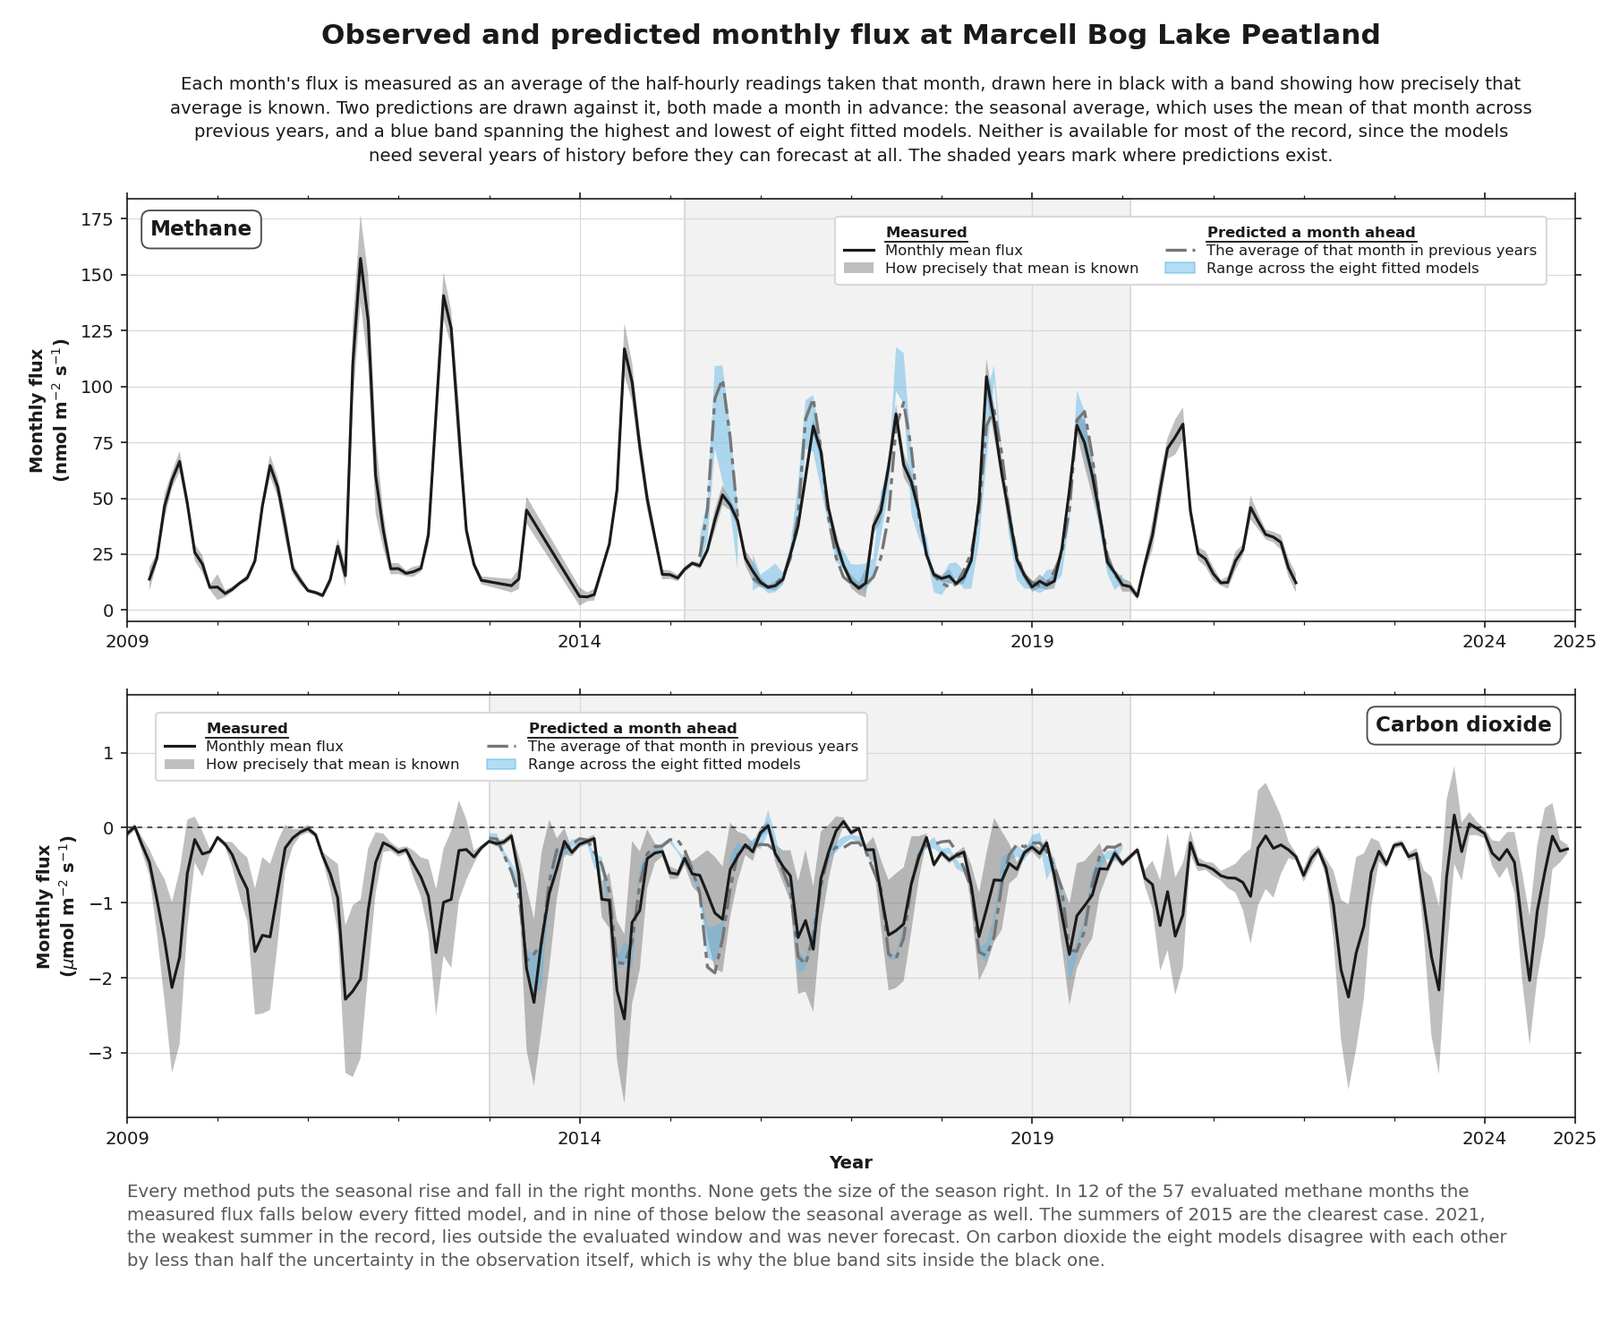
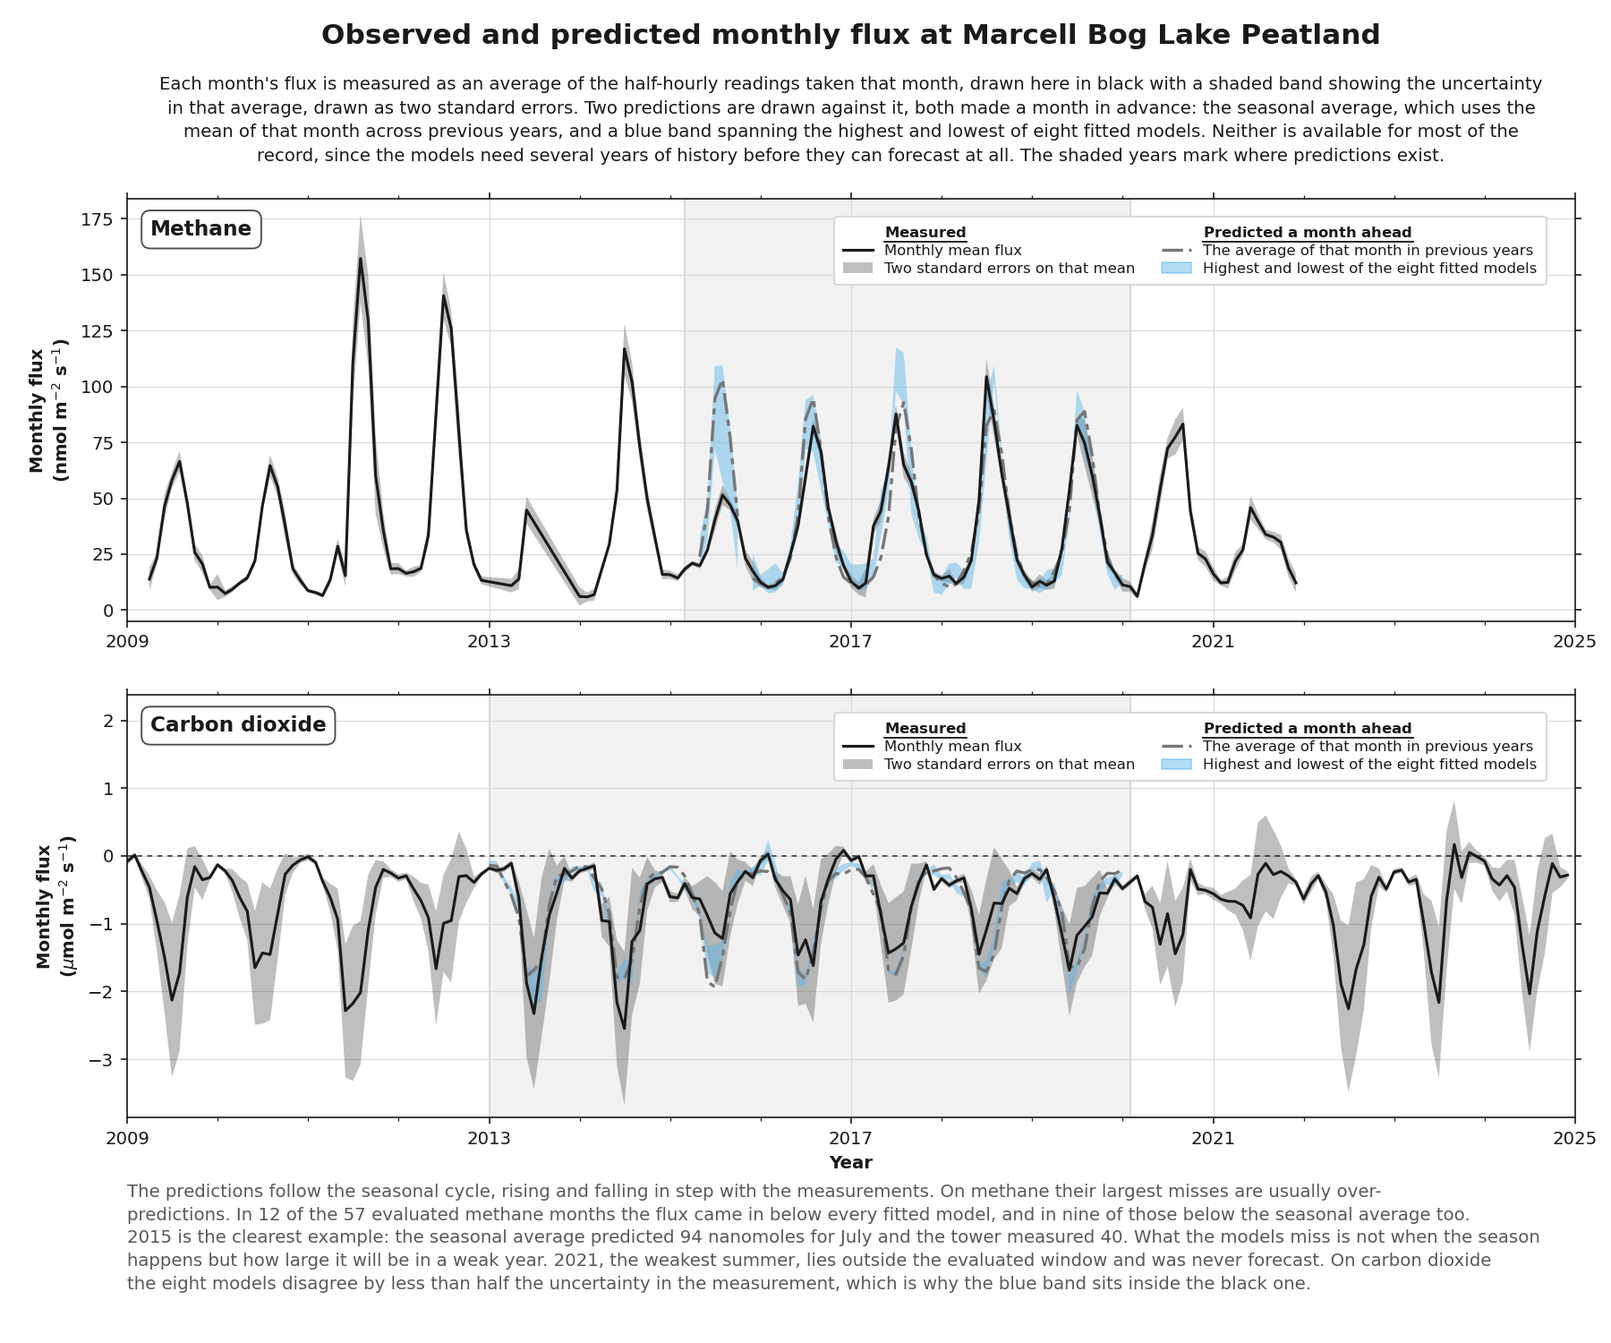
Revise the flux figure's ticks, legend and text

diff --git a/src/study/figures.py b/src/study/figures.py
@@ -362,11 +362,11 @@ FORECAST_TEXT = ps.FigureText(
     description=(
         "Methane is measured in nanomoles and carbon dioxide in micromoles, so "
         "the two panels cannot be compared by eye. The blue region spans all "
-        "eight fitted methods. Its lower edge dips below the seasonal average at "
+        "eight fitted models. Its lower edge dips below the seasonal average at "
         "one month on both gases, and at six months on methane, though never by "
         "more than the band. Its upper edge rises above the band at three, six "
-        "and twelve months: some fitted methods are distinguishably worse than "
-        "the average. The band is wide where the closest fitted method disagrees "
+        "and twelve months: some fitted models are distinguishably worse than "
+        "the average. The band is wide where the closest fitted model disagrees "
         "with the average erratically from month to month, not where the average "
         "is least certain."
     ),
@@ -434,7 +434,7 @@ def forecast_error_by_horizon(panels: dict[str, pd.DataFrame]) -> Figure:
     error that would put them on a common axis is not comparable between them.
     Removing the measure removes the temptation.
 
-    The fitted methods appear as a range rather than as eight labeled curves.
+    The fitted models appear as a range rather than as eight labeled curves.
     Four of the sixteen method comparisons reach nominal significance and none
     survives correction for multiple testing, so drawing an order would assert a
     ranking the evidence does not support.
@@ -461,7 +461,7 @@ def forecast_error_by_horizon(panels: dict[str, pd.DataFrame]) -> Figure:
         last = len(table) - 1
         ps.annotate(
             ax,
-            "above the band,\nsome fitted methods are\ndistinguishably worse",
+            "above the band,\nsome fitted models are\ndistinguishably worse",
             xy=(float(last), float(table["fitted_high"].iloc[last])),
             xytext=(0.988, 0.97), textcoords="axes fraction", ha="right", va="top",
         )
@@ -539,7 +539,7 @@ def _forecast_legend(ax) -> None:
     entries += [
         (blank, r"$\bf{Shaded\ regions}$"),
         (Patch(facecolor=ps.FITTED, alpha=ps.FITTED_FILL_ALPHA, edgecolor=ps.FITTED,
-               linewidth=0.9), "Range across the eight fitted methods"),
+               linewidth=0.9), "Highest and lowest of the eight fitted models"),
         (Patch(facecolor=ps.NOT_DISTINGUISHABLE, edgecolor="none"),
          "Margin needed to differ from the average"),
     ]
@@ -580,7 +580,7 @@ GAS_OBSERVED = {
 }
 
 #: The horizon this figure draws. One month is the horizon most favorable to the
-#: fitted methods, so showing that they do not follow the observations even there
+#: fitted models, so showing that they do not follow the observations even there
 #: is a stronger claim than showing it a year out.
 FLUX_HORIZON = 1
 
@@ -623,8 +623,9 @@ FLUX_TEXT = ps.FigureText(
     title="Observed and predicted monthly flux at Marcell Bog Lake Peatland",
     subtitle=(
         "Each month's flux is measured as an average of the half-hourly readings "
-        "taken that month, drawn here in black with a band showing how precisely "
-        "that average is known. Two predictions are drawn against it, both made a "
+        "taken that month, drawn here in black with a shaded band showing the "
+        "uncertainty in that average, drawn as two standard errors. Two "
+        "predictions are drawn against it, both made a "
         "month in advance: the seasonal average, which uses the mean of that month "
         "across previous years, and a blue band spanning the highest and lowest of "
         "eight fitted models. Neither is available for most of the record, since "
@@ -632,14 +633,16 @@ FLUX_TEXT = ps.FigureText(
         "The shaded years mark where predictions exist."
     ),
     description=(
-        "Every method puts the seasonal rise and fall in the right months. None "
-        "gets the size of the season right. In 12 of the 57 evaluated methane "
-        "months the measured flux falls below every fitted model, and in nine of "
-        "those below the seasonal average as well. The summers of 2015 are the "
-        "clearest case. 2021, the weakest summer in the "
-        "record, lies outside the evaluated window and was never forecast. On "
-        "carbon dioxide the eight models disagree with each other by less than "
-        "half the uncertainty in the observation itself, which is why the blue "
+        "The predictions follow the seasonal cycle, rising and falling in step "
+        "with the measurements. On methane their largest misses are usually "
+        "over-predictions. In 12 of the 57 evaluated methane months the flux came "
+        "in below every fitted model, and in nine of those below the seasonal "
+        "average too. 2015 is the clearest example: the seasonal average "
+        "predicted 94 nanomoles for July and the tower measured 40. What the "
+        "models miss is not when the season happens but how large it will be in a "
+        "weak year. 2021, the weakest summer, lies outside the evaluated window "
+        "and was never forecast. On carbon dioxide the eight models disagree by "
+        "less than half the uncertainty in the measurement, which is why the blue "
         "band sits inside the black one."
     ),
 )
@@ -686,26 +689,25 @@ def _draw_flux_panel(ax, panel: pd.DataFrame, unit: str, labeled: bool) -> None:
 def _flux_legend(ax, panel: pd.DataFrame) -> str:
     """Two columns, measured on the left and predicted on the right.
 
-    Placed on whichever side of the panel the series leave clear. The two records
-    peak at opposite ends, so a fixed corner would sit on the data in one panel or
-    the other.
+    Both panels put it on the right so a reader's eye does not relocate between
+    them. Methane's peaks are all in the first half of its record, and carbon
+    dioxide's right-hand months need a little more headroom than its left-hand
+    ones, which the fitting loop supplies.
     """
-    highest = panel["observed"] + OBSERVED_BAND_SIGMAS * panel["se"]
-    middle = len(panel) // 2
-    side = "upper right" if highest[:middle].max() > highest[middle:].max() else "upper left"
+    side = "upper right"
     blank = Line2D([], [], linestyle="none", marker="none")
     entries = [
         (blank, r"$\bf{Measured}$"),
         (Line2D([], [], color=ps.INK, linewidth=1.5), "Monthly mean flux"),
         (Patch(facecolor=ps.INK, alpha=ps.OBSERVED_BAND_ALPHA, edgecolor="none"),
-         "How precisely that mean is known"),
+         "Two standard errors on that mean"),
         (blank, r"$\bf{Predicted\ a\ month\ ahead}$"),
         (Line2D([], [], color="#767676", linestyle=(0, (7, 2, 2, 2)), linewidth=1.6),
          "The average of that month in previous years"),
         (Patch(facecolor=ps.FITTED, alpha=ps.FITTED_FILL_ALPHA, edgecolor=ps.FITTED,
-               linewidth=0.9), "Range across the eight fitted models"),
+               linewidth=0.9), "Highest and lowest of the eight fitted models"),
     ]
-    anchor = (0.985, 0.975) if side == "upper right" else (0.015, 0.975)
+    anchor = (0.985, 0.975)
     ps.legend(ax, handles=[h for h, _ in entries], labels=[label for _, label in entries],
               loc=side, bbox_to_anchor=anchor, ncol=2, borderpad=0.6,
               labelspacing=0.3, columnspacing=1.8, handlelength=2.0,
@@ -764,8 +766,8 @@ def observed_and_predicted(panels: dict[str, pd.DataFrame]) -> Figure:
         row = bottom + (1 - index) * (panel_height + gap)
         ax = fig.add_axes((left, row, width, panel_height))
         _draw_flux_panel(ax, panels[key], unit, labeled=index == len(GAS_PANEL) - 1)
-        side = _flux_legend(ax, panels[key])
-        ps.panel_name(ax, gas, align="right" if side == "upper left" else "left")
+        _flux_legend(ax, panels[key])
+        ps.panel_name(ax, gas, align="left")
         axes.append(ax)
 
     # One time axis for both panels, so a year sits at the same place in each.
@@ -775,7 +777,7 @@ def observed_and_predicted(panels: dict[str, pd.DataFrame]) -> Figure:
     last = (max(panel.index.max() for panel in panels.values()) + 1).to_timestamp()
     for ax, (key, _, _) in zip(axes, GAS_PANEL):
         ax.set_xlim(first, last)
-        ps.five_year_ticks(ax, first.year, last.year)
+        ps.even_year_ticks(ax, first.year, last.year)
         _raise_top_for_flux_legend(ax, panels[key])
         _underline_legend_headings(fig, ax)
     return fig

diff --git a/tests/test_flux_figure.py b/tests/test_flux_figure.py
@@ -230,3 +230,55 @@ def test_where_the_two_bands_overlap_the_result_is_distinct_from_each():
     both = _over(ps.FITTED, ps.FITTED_FILL_ALPHA, base=grey)
     for other in (grey, blue):
         assert np.linalg.norm(both - other) > 0.04
+
+
+def test_both_legends_sit_on_the_same_side():
+    """A legend that moves between panels makes the eye relocate."""
+    fig = figures.observed_and_predicted(real_panels())
+    fig.canvas.draw()
+    corners = set()
+    for ax in fig.axes:
+        box = ax.get_legend().get_window_extent().transformed(ax.transAxes.inverted())
+        corners.add(round((box.x0 + box.x1) / 2) )
+    assert len(corners) == 1
+    ps.plt.close(fig)
+
+
+def test_the_year_ticks_are_evenly_spaced_and_reach_the_end_of_the_axis():
+    import matplotlib.dates as mdates
+
+    fig = figures.observed_and_predicted(real_panels())
+    for ax in fig.axes:
+        years = [mdates.num2date(t).year for t in ax.get_xticks()]
+        gaps = {b - a for a, b in zip(years, years[1:])}
+        assert len(gaps) == 1, f"uneven year gaps: {years}"
+        assert years[-1] == mdates.num2date(ax.get_xlim()[1]).year
+        assert len(ax.xaxis.get_minor_locator()() ) > len(years), "annual minors missing"
+    ps.plt.close(fig)
+
+
+def test_the_legend_names_what_the_band_is_not_what_it_is_for():
+    fig = figures.observed_and_predicted(real_panels())
+    labels = [t.get_text() for t in fig.axes[0].get_legend().get_texts()]
+    assert "Two standard errors on that mean" in labels
+    assert "Highest and lowest of the eight fitted models" in labels
+    assert not any("precisely" in label for label in labels)
+    ps.plt.close(fig)
+
+
+def test_the_eight_are_called_models_wherever_they_are_named():
+    """Four methods, each run two ways, are eight models.
+
+    "Four fitted methods" naming the four algorithms is the one correct use of the
+    word and is left alone; what is forbidden is calling the eight fitted things
+    methods.
+    """
+    for text in (figures.FLUX_TEXT, figures.FORECAST_TEXT):
+        words = text.subtitle + text.description
+        assert "eight fitted methods" not in words
+        assert "fitted method disagrees" not in words
+    fig = figures.observed_and_predicted(real_panels())
+    for ax in fig.axes:
+        for label in (t.get_text() for t in ax.get_legend().get_texts()):
+            assert "fitted methods" not in label
+    ps.plt.close(fig)

diff --git a/src/study/plotstyle.py b/src/study/plotstyle.py
@@ -41,7 +41,7 @@ from ingest import paths
 INSIDE = "#0072B2"
 OUTSIDE = "#D55E00"
 
-#: The fitted methods in the forecast comparison. Okabe-Ito sky blue, chosen by
+#: The fitted models in the forecast comparison. Okabe-Ito sky blue, chosen by
 #: measurement rather than by taste: its worst separation from either support
 #: hue is 25.0 under simulated deficiency, and from every gray on its own panel
 #: at least 33.0, against the 2.3 at which two colors become distinguishable.
@@ -400,6 +400,27 @@ def five_year_ticks(ax: plt.Axes, first_year: int, last_year: int) -> None:
     years = list(range(first_year, last_year + 1, 5))
     if last_year not in years:
         years.append(last_year)
+    ax.xaxis.set_major_locator(FixedLocator([date2num(_dt.date(y, 1, 1)) for y in years]))
+    ax.xaxis.set_major_formatter(DateFormatter("%Y"))
+    ax.xaxis.set_minor_locator(YearLocator(1))
+
+
+def even_year_ticks(ax: plt.Axes, first_year: int, last_year: int) -> None:
+    """Major ticks evenly spaced from the first year to the last, annual minors.
+
+    `five_year_ticks` appends the endpoint when it does not fall on a multiple of
+    five, which leaves a short final gap against long ones elsewhere. Here the
+    step is chosen so the last label lands on the end of the axis and every gap
+    is the same.
+    """
+    import datetime as _dt
+
+    from matplotlib.dates import DateFormatter, YearLocator, date2num
+    from matplotlib.ticker import FixedLocator
+
+    span = last_year - first_year
+    step = next((s for s in (5, 4, 3, 2, 1) if span % s == 0), 1)
+    years = list(range(first_year, last_year + 1, step))
     ax.xaxis.set_major_locator(FixedLocator([date2num(_dt.date(y, 1, 1)) for y in years]))
     ax.xaxis.set_major_formatter(DateFormatter("%Y"))
     ax.xaxis.set_minor_locator(YearLocator(1))

diff --git a/figures/README_fragments.md b/figures/README_fragments.md
@@ -28,12 +28,12 @@ Each marker is one year's emission in grams of carbon per square meter, from rel
 
 **Four fitted methods (ordinary least squares, ridge regression, random forest and gradient boosting), each run with and without lagged environmental covariates, are compared against four simple benchmarks. Each is evaluated at forecast horizons of one to twelve months, meaning how far ahead the prediction is made. The most accurate at every horizon on both gases is the simplest: predicting each month as the average of that month in previous years. The pale band marks how far below that average a method would have to fall before the difference could be told apart from noise.**
 
-Methane is measured in nanomoles and carbon dioxide in micromoles, so the two panels cannot be compared by eye. The blue region spans all eight fitted methods. Its lower edge dips below the seasonal average at one month on both gases, and at six months on methane, though never by more than the band. Its upper edge rises above the band at three, six and twelve months: some fitted methods are distinguishably worse than the average. The band is wide where the closest fitted method disagrees with the average erratically from month to month, not where the average is least certain.
+Methane is measured in nanomoles and carbon dioxide in micromoles, so the two panels cannot be compared by eye. The blue region spans all eight fitted models. Its lower edge dips below the seasonal average at one month on both gases, and at six months on methane, though never by more than the band. Its upper edge rises above the band at three, six and twelve months: some fitted models are distinguishably worse than the average. The band is wide where the closest fitted model disagrees with the average erratically from month to month, not where the average is least certain.
 
 ### Observed and predicted monthly flux at Marcell Bog Lake Peatland
 
 ![Observed and predicted monthly flux at Marcell Bog Lake Peatland](figures/observed_and_predicted.png)
 
-**Each month's flux is measured as an average of the half-hourly readings taken that month, drawn here in black with a band showing how precisely that average is known. Two predictions are drawn against it, both made a month in advance: the seasonal average, which uses the mean of that month across previous years, and a blue band spanning the highest and lowest of eight fitted models. Neither is available for most of the record, since the models need several years of history before they can forecast at all. The shaded years mark where predictions exist.**
+**Each month's flux is measured as an average of the half-hourly readings taken that month, drawn here in black with a shaded band showing the uncertainty in that average, drawn as two standard errors. Two predictions are drawn against it, both made a month in advance: the seasonal average, which uses the mean of that month across previous years, and a blue band spanning the highest and lowest of eight fitted models. Neither is available for most of the record, since the models need several years of history before they can forecast at all. The shaded years mark where predictions exist.**
 
-Every method puts the seasonal rise and fall in the right months. None gets the size of the season right. In 12 of the 57 evaluated methane months the measured flux falls below every fitted model, and in nine of those below the seasonal average as well. The summers of 2015 are the clearest case. 2021, the weakest summer in the record, lies outside the evaluated window and was never forecast. On carbon dioxide the eight models disagree with each other by less than half the uncertainty in the observation itself, which is why the blue band sits inside the black one.
+The predictions follow the seasonal cycle, rising and falling in step with the measurements. On methane their largest misses are usually over-predictions. In 12 of the 57 evaluated methane months the flux came in below every fitted model, and in nine of those below the seasonal average too. 2015 is the clearest example: the seasonal average predicted 94 nanomoles for July and the tower measured 40. What the models miss is not when the season happens but how large it will be in a weak year. 2021, the weakest summer, lies outside the evaluated window and was never forecast. On carbon dioxide the eight models disagree by less than half the uncertainty in the measurement, which is why the blue band sits inside the black one.

diff --git a/notes/study.md b/notes/study.md
@@ -1541,7 +1541,7 @@ correction, so it reflects effective sample size: 35.6 rather than 57 at methane
 one-month horizon. **The best fitted method is inside the band at every horizon on
 both gases**, which is the figure's whole claim, drawn rather than asserted.
 
-**The fitted methods are a range, not eight curves.** Four of the sixteen method
+**The fitted models are a range, not eight curves.** Four of the sixteen method
 comparisons reach nominal significance and none survives correction, so drawing an
 order would assert a ranking the evidence cannot support. The envelope's lower
 edge dips below climatology at one month on both gases and at six on methane, in
@@ -1735,6 +1735,44 @@ horizon but one; a residual panel; markers on the observed series, which at 150
 monthly points over sixteen years crowd where the line alone carries it; and an
 annotation naming 2015 on the panel, which could not be placed without crossing a
 series or the legend, so the description names it instead.
+
+**A claim about the direction of the misses was cut back.** A draft description
+said that when the predictions miss they almost always predict too much. They do
+not: on methane 31 of 57 months are over-predictions and on carbon dioxide 43 of
+85, both near a coin flip. What is true is an asymmetry in size rather than in
+frequency. On methane the over-predictions carry 292 of the 447 units of total
+absolute error, and ten of the largest fifteen misses are over-predictions; on
+carbon dioxide there is no such asymmetry, with nine of the largest fifteen falling
+the other way. The figure now says only that methane's largest misses are usually
+over-predictions.
+
+**The eight fitted things are called models throughout.** Four methods, each run
+with and without lagged covariates, make eight models. "Four fitted methods"
+naming the four algorithms is the one correct use of the other word and is left
+alone. Swept across both figures and these notes, with a test pinning it.
+
+**Both legends sit on the right, which costs the carbon dioxide panel a little.**
+Placed on whichever side each panel left clear, they landed on opposite sides and
+the eye had to relocate between panels. Holding both to the right means carbon
+dioxide's legend must clear its right-hand months, which run higher than its
+left-hand ones, and the panel's data now fills 72% of its height rather than 80%.
+That is the price of not moving the key.
+
+**Two things about the panel that cannot be improved without distorting them.**
+The carbon dioxide uncertainty band is wide in summer, which reads as noise. It
+is not: the eight widest bands all rest on the full 48 half-hour-of-day cells and
+400 to 750 half-hours, and the correlation between band width and how many
+half-hours support a month is −0.09. The band is wide because carbon dioxide flux
+genuinely varies within a summer month. It exceeds the seasonal amplitude in only
+2 of 192 months; the median band is a fifth of that amplitude. Narrowing it would
+misstate how well the measurement is known.
+
+The methane panel's right fifth is empty because the record ends in 2021 while the
+shared axis runs to 2025. The alternatives are worse: separate axes would put the
+same year in different places in two stacked time series, and clipping the axis at
+2021 would delete 36 months of carbon dioxide observations, including three of the
+widest uncertainty bands, to tidy a gap. The gap is information — it is why the
+two evaluated windows differ in length — and it stays.
 
 ### What the forecasting half concludes
 
